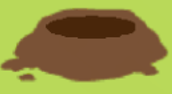
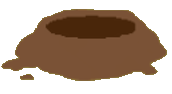
支持透明贴图

diff --git a/src/game.cpp b/src/game.cpp
@@ -14,6 +14,25 @@ IMAGE IMG_HOLE;
 IMAGE IMG_HAMMER;
 IMAGE IMG_HAMMER_DOWN;
 
+// 支持透明PNG的图片放置
+void putImage(int x, int y, IMAGE img) {
+    IMAGE img1;
+    DWORD *d1;
+    img1 = img;
+    d1 = GetImageBuffer(&img1);
+    float h, s, l;
+    for (int i = 0; i < img1.getheight() * img1.getwidth(); i++) {
+        RGBtoHSL(BGR(d1[i]), &h, &s, &l);
+        if (l < 0.03) {
+            d1[i] = BGR(WHITE);
+        }
+        if (d1[i] != BGR(WHITE)) {
+            d1[i] = 0;
+        }
+    }
+    putimage(x, y, &img1, SRCAND);
+    putimage(x, y, &img, SRCPAINT);
+}
 
 game::game(unsigned short level, Difficulty diff) : level(level), difficulty(diff), score(0) {
     // 加载所需图片
@@ -82,7 +101,7 @@ void game::spawnHoles() {
             int x = WINDOW_WIDTH / 2 - (rows * 100 + (rows - 1) * gapX) / 2 + i * (100 + gapX);
             int y = WINDOW_HEIGHT / 2 - (cols * 50 + (cols - 1) * gapY) / 2 + j * (50 + gapY);
             holes[i][j] = {x, y, 100, 50, mole(x, y)};
-            putimage(x, y, &IMG_HOLE);
+            putImage(x, y, IMG_HOLE);
         }
     }
 }
@@ -118,9 +137,9 @@ void game::hammerListener() {
         // 放置锤子
         if (m.mkLButton) {
             debug("hammer down.");
-            putimage(x, y, &IMG_HAMMER_DOWN);
+            putImage(x, y, IMG_HAMMER_DOWN);
         } else {
-            putimage(x, y, &IMG_HAMMER);
+            putImage(x, y, IMG_HAMMER);
         }
     }
 }
